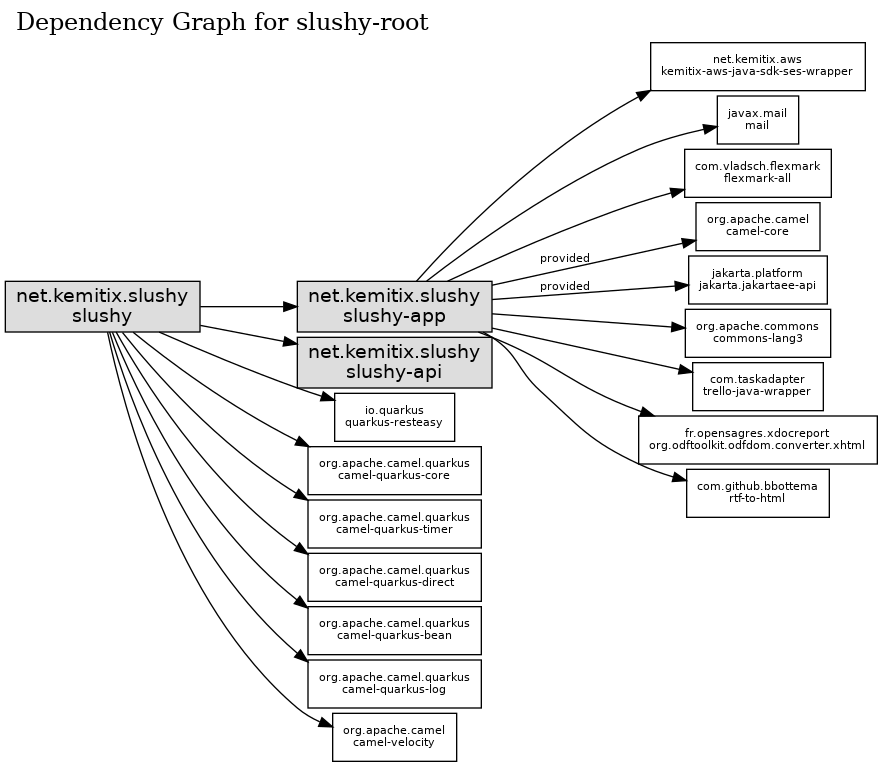
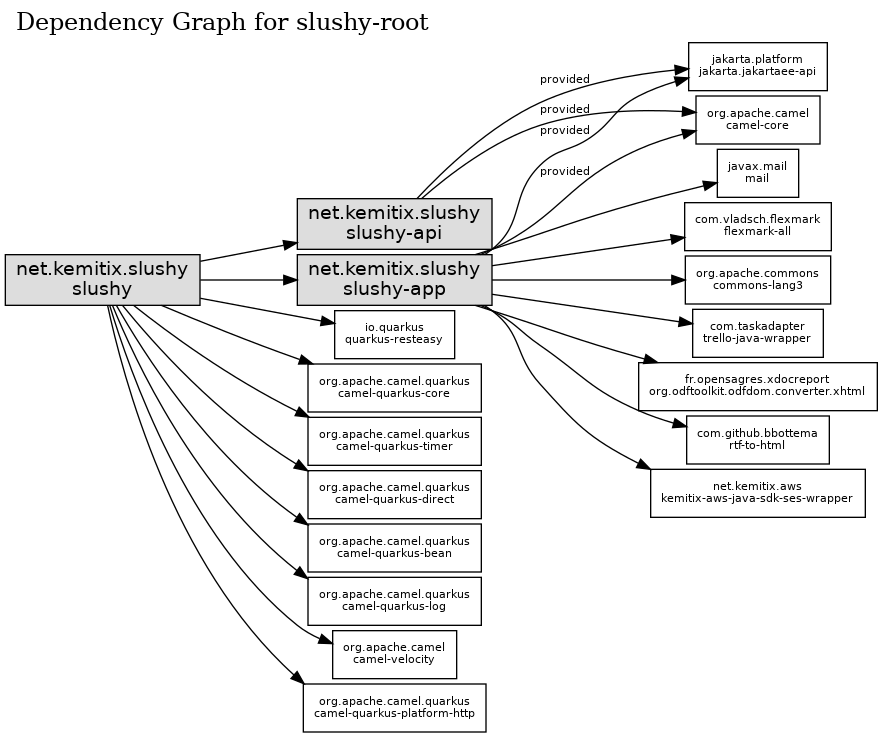
slushy-api: add stub endpoint

diff --git a/slushy-api/src/main/java/net/kemitix/slushy/api/SlushyTopItemApiRoute.java b/slushy-api/src/main/java/net/kemitix/slushy/api/SlushyTopItemApiRoute.java
@@ -1,0 +1,21 @@
+package net.kemitix.slushy.api;
+
+import lombok.extern.java.Log;
+import org.apache.camel.builder.RouteBuilder;
+
+import javax.enterprise.context.ApplicationScoped;
+
+@Log
+@ApplicationScoped
+public class SlushyTopItemApiRoute
+        extends RouteBuilder {
+
+    @Override
+    public void configure() {
+        from("platform-http:/slush/topitem")
+                .routeId("Slushy.TopItem")
+                .log("slush-top-item")
+                .setBody(constant("TOP ITEM"))
+        ;
+    }
+}
